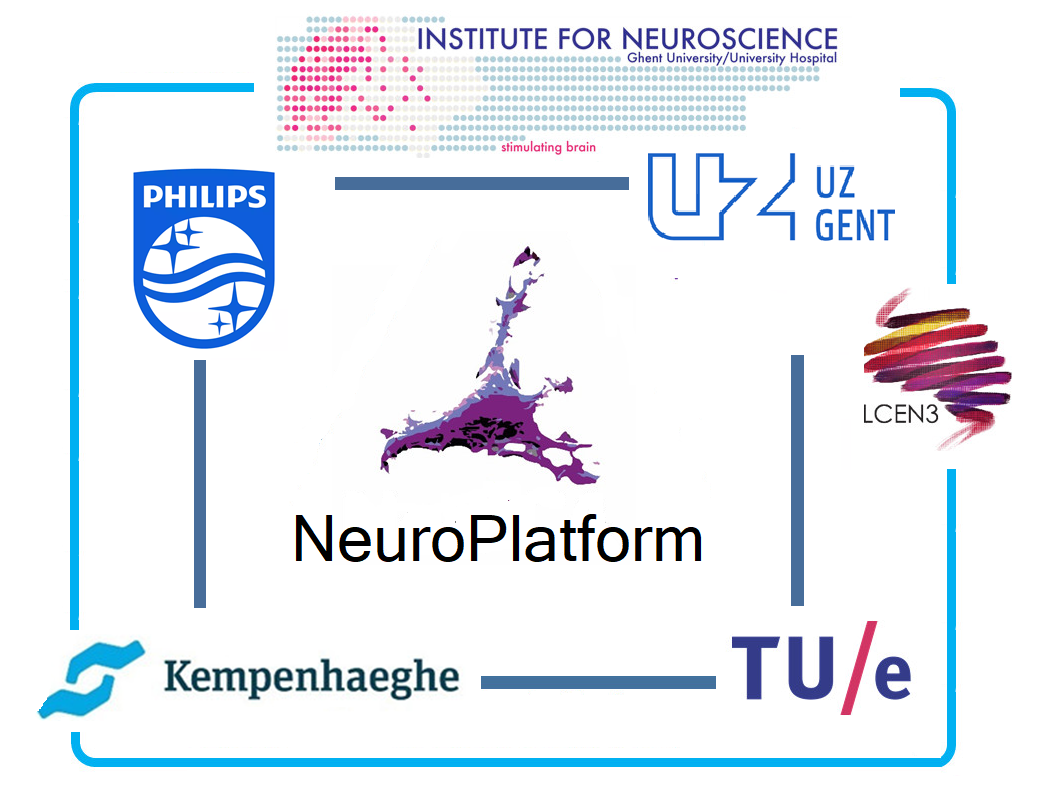
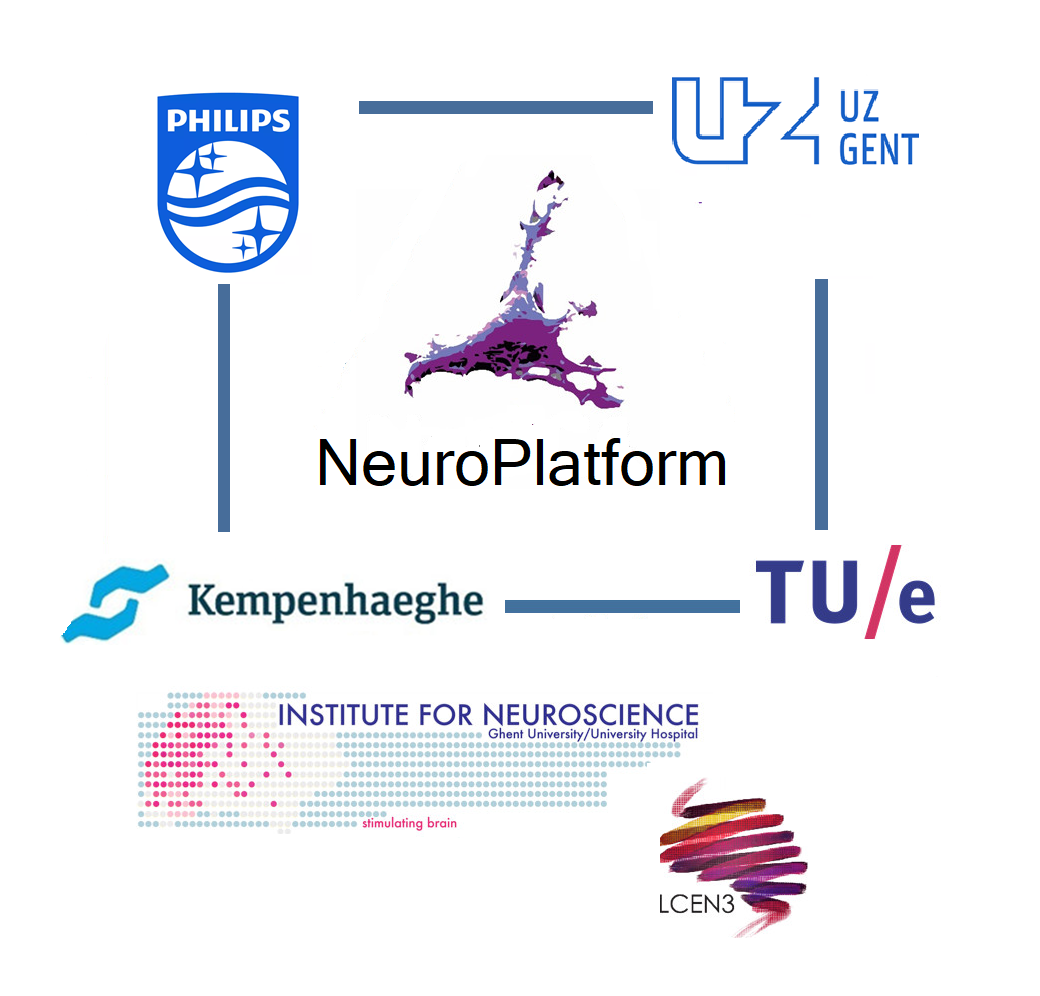
partners page img

Changed region(s): [[0.0308, 0.0, 0.9846, 0.9544]]

diff --git a/partners/index.html b/partners/index.html
@@ -18,7 +18,7 @@ classes: wide
 			      
 			<p style="font-size: 18px; align-content: left">The NeuroPlatform program is carried out by a multidisplinary team, involving technical and clinical partners from both academia and industry. Our main academic partners are given in this image.</p>
 			<br><br>
-			<p><img class="centered" src="https://imaginginpsychiatry.github.io/neuroplatform2/assets/images/neuroplatform-ecosystem.png" alt="Drawing" style="width:50%;display: block;margin-left: auto;margin-right: auto;border: 5px ridge lightgray;"></p>
+			<p><img class="centered" src="https://imaginginpsychiatry.github.io/neuroplatform2/assets/images/neuroplatform-ecosystem_new.png" alt="Drawing" style="width:50%;display: block;margin-left: auto;margin-right: auto;border: 5px ridge lightgray;"></p>
 				
   			</div>
 		  </div>
